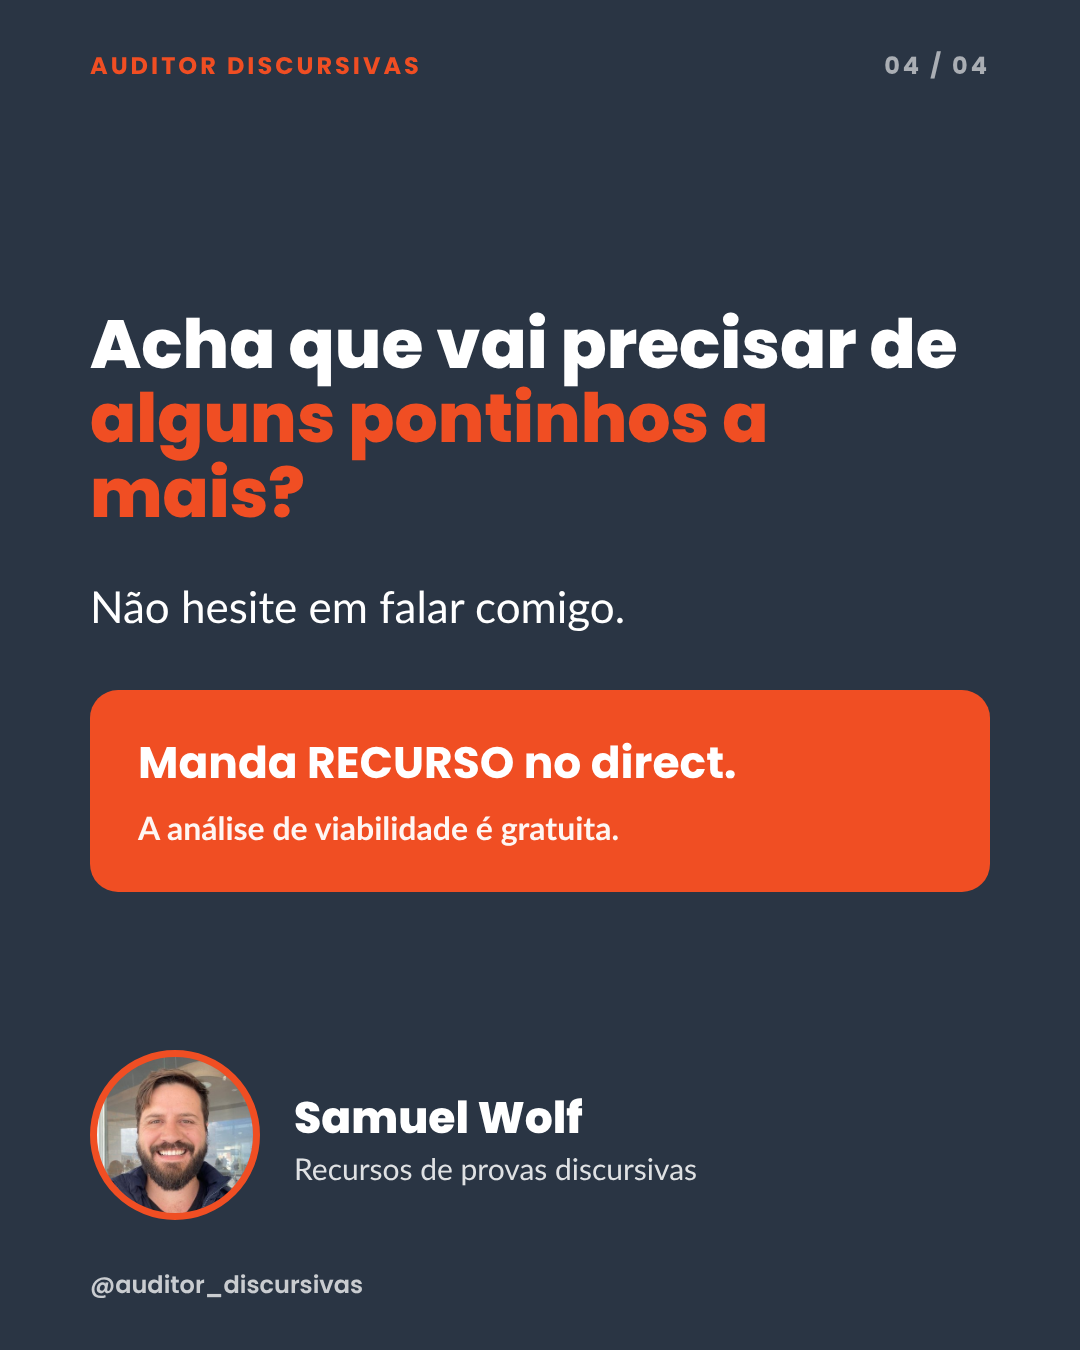
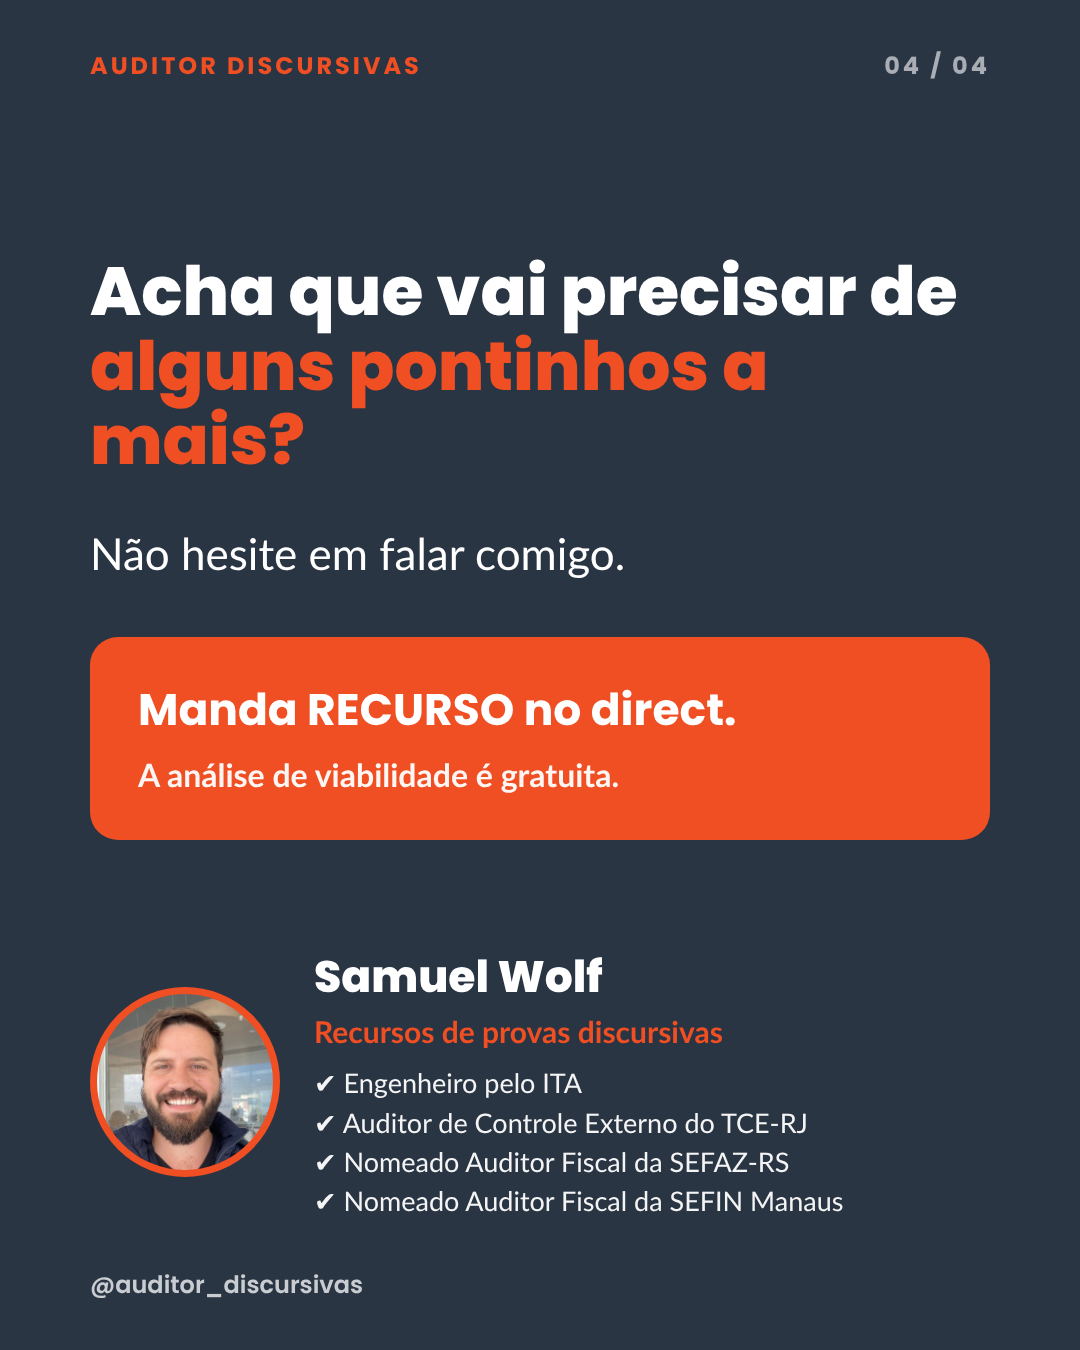
Pós-prova policial: credenciais no slide final
Claude-Session: https://claude.ai/code/session_01EgMW37fCa7VUd5qyR39tLp

Changed region(s): [[0.0611, 0.1867, 0.9167, 0.6844], [0.0611, 0.7156, 0.7639, 0.9022]]

diff --git a/fontes/campanha-pos-prova-policial/carrossel.html b/fontes/campanha-pos-prova-policial/carrossel.html
@@ -87,7 +87,7 @@ p.mid{font-size:38px;line-height:1.45}
  <p class="big" style="margin:44px 0 52px">Não hesite em falar comigo.</p>
  <div class="box">Manda RECURSO no direct.<small>A análise de viabilidade é gratuita.</small></div>
  <div class="sp"></div>
- <div class="autor" style="margin-top:0"><div class="foto"></div><div><b>Samuel Wolf</b><span>Recursos de provas discursivas</span></div></div>
+ <div class="autor" style="margin-top:0;align-items:center"><div class="foto" style="flex:0 0 190px;width:190px;height:190px"></div><div><b>Samuel Wolf</b><span style="display:block;color:var(--lar);opacity:1;font-weight:700;margin:4px 0 14px">Recursos de provas discursivas</span><ul style="list-style:none;font-size:27px;line-height:1.45;opacity:.95"><li>✔ Engenheiro pelo ITA</li><li>✔ Auditor de Controle Externo do TCE-RJ</li><li>✔ Nomeado Auditor Fiscal da SEFAZ-RS</li><li>✔ Nomeado Auditor Fiscal da SEFIN Manaus</li></ul></div></div>
  <div class="rod"><span>@auditor_discursivas</span><span></span></div>
 </section>
 
